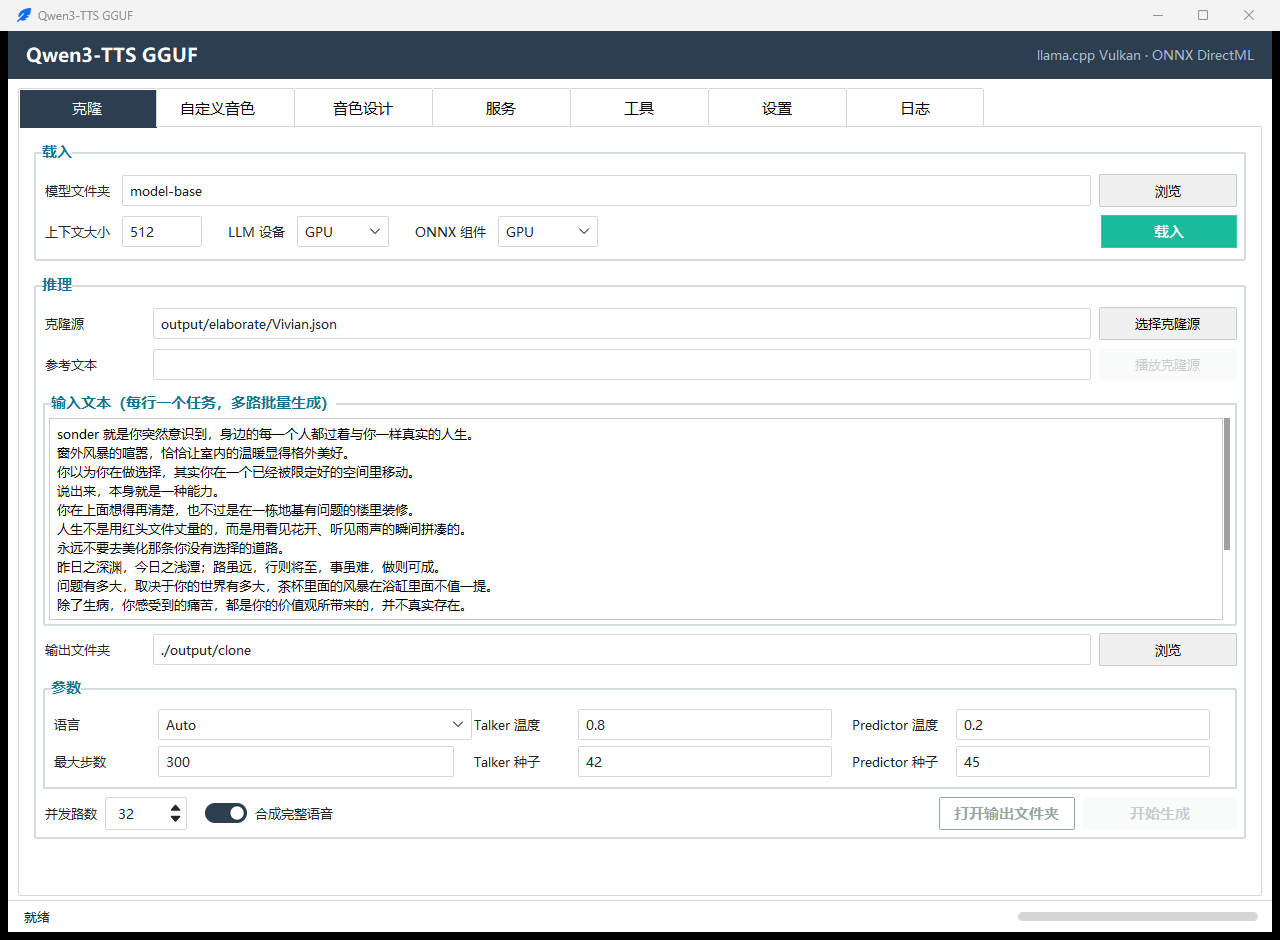
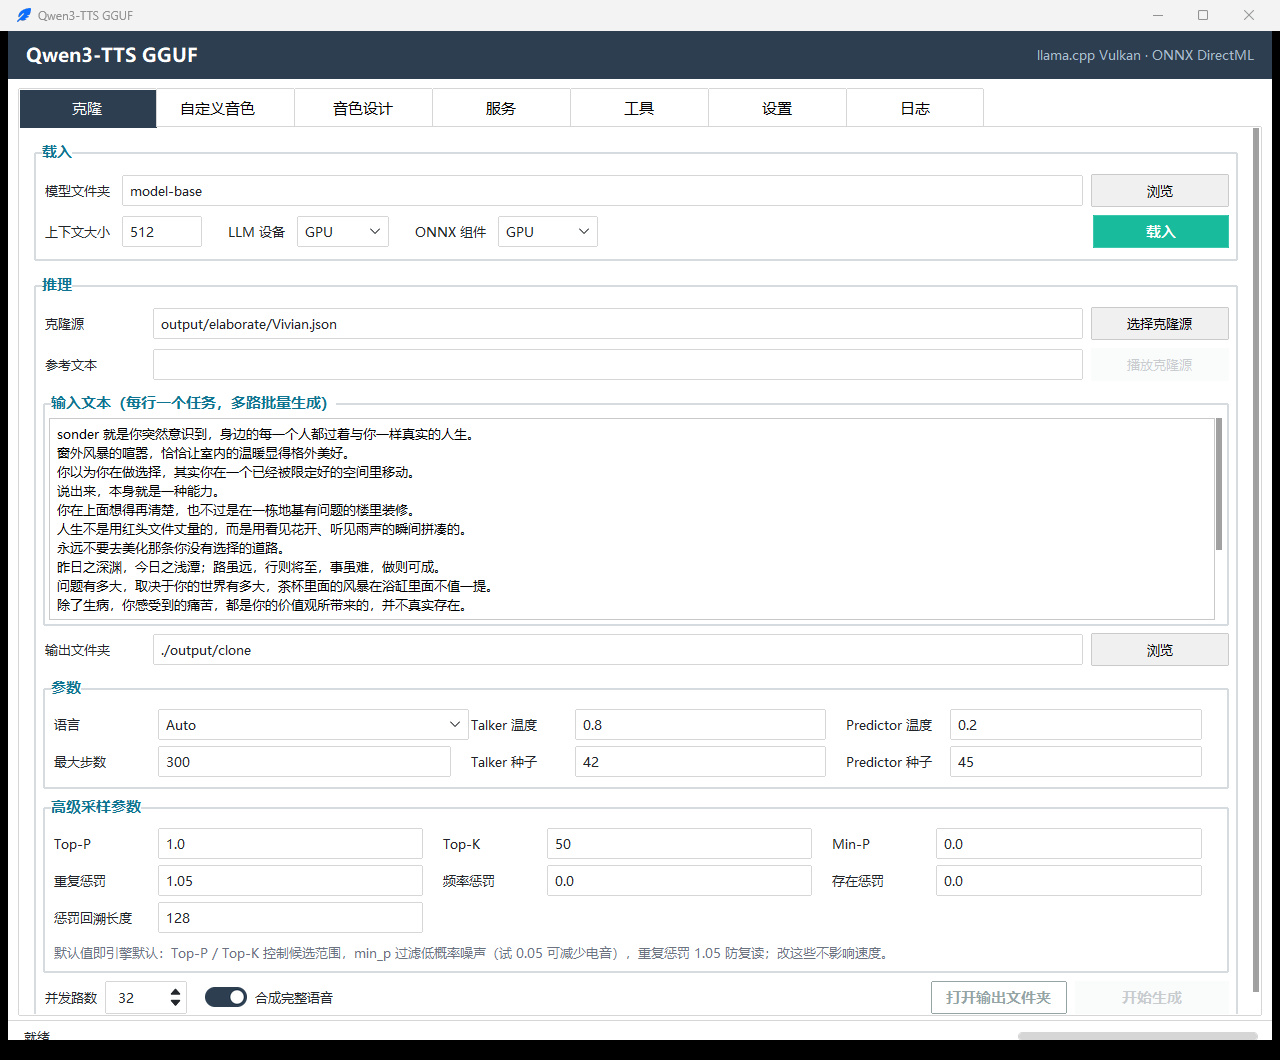
feat(gui): 参数区新增「高级采样参数」分组
- 基础参数下面新增一组高级采样参数：Top-P / Top-K / Min-P /
  重复惩罚 / 频率惩罚 / 存在惩罚 / 惩罚回溯长度，默认值即 TTSConfig 引擎默认
- 读取时做范围校验（top_p 0~1、top_k ≥0、min_p 0~1、repeat_penalty >0、
  freq/presence -10~10、penalty_last_n 0~8192），越界或非数字沿用「参数格式有误」提示
- 三语文案同步（zh/en/de），并更新「参数格式有误」的提示内容
- README 中英文补充两组参数的说明与调参建议（min_p 0.05 减电音、repeat_penalty 1.05 防复读）
- 更新界面截图（含新的高级参数面板）

Changed region(s): [[0.0, 0.0, 1.0, 1.0]]

diff --git a/qwen3_tts_gguf/gui/base_tab.py b/qwen3_tts_gguf/gui/base_tab.py
@@ -278,7 +278,7 @@ class TTSPageBase(ttkb.Frame):
         row += 1
 
         self._build_param_grid(group, row)
-        self._build_control_row(group, row + 1)
+        self._build_control_row(group, row + 2)  # 参数一组 + 高级参数一组
 
     def _build_source_rows(self, group):
         """推理区顶部源控件（克隆源/说话人等），子类按需覆写，返回占用的行数"""
@@ -295,6 +295,18 @@ class TTSPageBase(ttkb.Frame):
             (1, 2, "seed", "gen.talker_seed", "42", "entry"),
             (0, 4, "sub_temperature", "gen.predictor_temp", "0.2", "entry"),
             (1, 4, "sub_seed", "gen.predictor_seed", "45", "entry"),
+        ]
+
+    def _advanced_param_entries(self):
+        """高级采样参数（TTSConfig 直通，默认值 = 引擎默认）：(行, 标签列, 键, 标签 key, 默认值)"""
+        return [
+            (0, 0, "top_p", "gen.top_p", "1.0"),
+            (0, 2, "top_k", "gen.top_k", "50"),
+            (0, 4, "min_p", "gen.min_p", "0.0"),
+            (1, 0, "repeat_penalty", "gen.repeat_penalty", "1.05"),
+            (1, 2, "frequency_penalty", "gen.frequency_penalty", "0.0"),
+            (1, 4, "presence_penalty", "gen.presence_penalty", "0.0"),
+            (2, 0, "penalty_last_n", "gen.penalty_last_n", "128"),
         ]
 
     def _build_param_grid(self, group, row):
@@ -316,6 +328,22 @@ class TTSPageBase(ttkb.Frame):
                 ttkb.Entry(pg, textvariable=var, width=10).grid(row=r + 1, column=col + 1, sticky=EW, padx=(0, 18), pady=3)
             ttkb.Label(pg, text=t(label), width=12).grid(row=r + 1, column=col, sticky=W, padx=(0, 6), pady=3)
             self.param_vars[key] = var
+
+        # 高级采样参数：单独一组，默认值即引擎默认，不改也能用
+        ag = ttkb.Labelframe(group, text=t("gen.adv_group"), padding=8)
+        ag.grid(row=row + 1, column=0, columnspan=3, sticky=EW, pady=(0, 8))
+        for col in (1, 3, 5):
+            ag.columnconfigure(col, weight=1)
+        for r, col, key, label, default in self._advanced_param_entries():
+            var = tk.StringVar(value=default)
+            ttkb.Entry(ag, textvariable=var, width=10).grid(row=r + 1, column=col + 1, sticky=EW,
+                                                            padx=(0, 18), pady=3)
+            ttkb.Label(ag, text=t(label), width=12).grid(row=r + 1, column=col, sticky=W,
+                                                         padx=(0, 6), pady=3)
+            self.param_vars[key] = var
+        ttkb.Label(ag, text=t("gen.adv_hint"), foreground="#6b7280", wraplength=900,
+                   justify=LEFT).grid(row=len(self._advanced_param_entries()) + 1, column=0,
+                                      columnspan=6, sticky=W, pady=(5, 0))
 
     def _selected_language(self):
         """语言下拉选中值 -> 引擎参数：Auto 传 None 走模型自适应"""
@@ -488,12 +516,27 @@ class TTSPageBase(ttkb.Frame):
 
         # tkinter 变量必须在 UI 线程读——参数在此读好再传给后台线程
         try:
+            def _num(key, cast, lo, hi):
+                """读高级参数并做范围校验，越界按格式错误处理"""
+                v = cast(self.param_vars[key].get())
+                if not (lo <= v <= hi):
+                    raise ValueError(key)
+                return v
+
             cfg = TTSConfig(
                 max_steps=int(self.param_vars["max_steps"].get()),
                 temperature=float(self.param_vars["temperature"].get()),
                 seed=int(self.param_vars["seed"].get()),
                 sub_temperature=float(self.param_vars["sub_temperature"].get()),
                 sub_seed=int(self.param_vars["sub_seed"].get()),
+                # 高级采样参数（默认值即引擎默认，见 TTSConfig）
+                top_p=_num("top_p", float, 1e-6, 1.0),
+                top_k=_num("top_k", int, 0, 100000),
+                min_p=_num("min_p", float, 0.0, 1.0),
+                repeat_penalty=_num("repeat_penalty", float, 1e-6, 10.0),
+                frequency_penalty=_num("frequency_penalty", float, -10.0, 10.0),
+                presence_penalty=_num("presence_penalty", float, -10.0, 10.0),
+                penalty_last_n=_num("penalty_last_n", int, 0, 8192),
                 streaming=False,
             )
             n_ctx = int(self.n_ctx.get())

diff --git a/readme.en.md b/readme.en.md
@@ -304,6 +304,11 @@ Double-click `启动GUI.bat`, or run `python 52-GUI.py`.
 
 At load time you can pick the LLM device (GPU/CPU) and the ONNX device (GPU/CPU) separately. Short on VRAM? Move the encoder to CPU — it only extracts features.
 
+The parameter panel has two groups:
+
+- **Basic**: language, max steps, Talker temperature/seed, Predictor temperature/seed — what to say, how long, and how random
+- **Advanced sampling**: Top-P / Top-K / Min-P / repeat / frequency / presence penalty / penalty window — defaults equal the engine defaults; try `min_p=0.05` to reduce artifacts and `repeat_penalty=1.05` against repetition; these do not affect speed
+
 ### Scripts
 
 Three examples, one per model type:
@@ -645,7 +650,7 @@ Three moves: encoder on CPU (−120 MB), switch to 0.6B (−500 MB), shorten the
 
 **Q: How do I tune quality?**
 
-`TTSConfig(temperature=0.8, sub_temperature=0.8, seed=42, sub_seed=45)`. Temperature adds randomness, seeds make it reproducible. For a stable voice, fix the seed and pick the best take.
+`TTSConfig(temperature=0.8, sub_temperature=0.8, seed=42, sub_seed=45)`. Temperature adds randomness, seeds make it reproducible. For a stable voice, fix the seed and pick the best take. The GUI's "Advanced sampling" group exposes Top-P / Top-K / Min-P / penalties directly — no code change needed.
 
 **Q: It fails with `cuDNN is unavailable / cudnn64_9.dll` at startup?**
 

diff --git a/readme.md b/readme.md
@@ -306,6 +306,11 @@ chinese、english、japanese、korean、german、spanish、french、russian、it
 
 模型载入时可以分别指定 LLM 设备（GPU/CPU）和 ONNX 组件设备（GPU/CPU）。显存不够就把编码器丢给 CPU，它只做特征提取，不吃算力。
 
+参数区分两组：
+
+- **基础参数**：语言、最大步数、Talker 温度/种子、Predictor 温度/种子——决定说什么、说多长、随机性多大
+- **高级采样参数**：Top-P / Top-K / Min-P / 重复惩罚 / 频率惩罚 / 存在惩罚 / 惩罚回溯长度——默认值就是引擎默认值；`min_p` 试 0.05 可减少电音，`repeat_penalty` 1.05 治复读；改这些不影响速度
+
 ### 脚本模式
 
 三个示例脚本，对应三种模型：
@@ -647,7 +652,7 @@ flowchart LR
 
 **Q: 怎么调质量？**
 
-`TTSConfig(temperature=0.8, sub_temperature=0.8, seed=42, sub_seed=45)`。温度控制随机性，种子控制复现。音色不稳就先固定种子多跑几次挑一个。
+`TTSConfig(temperature=0.8, sub_temperature=0.8, seed=42, sub_seed=45)`。温度控制随机性，种子控制复现。音色不稳就先固定种子多跑几次挑一个。GUI 参数区下方的「高级采样参数」可以直接改 Top-P / Top-K / Min-P / 惩罚项，不用改代码。
 
 **Q: 启动或生成时报 `cuDNN is unavailable / cudnn64_9.dll` 加载失败？**
 
